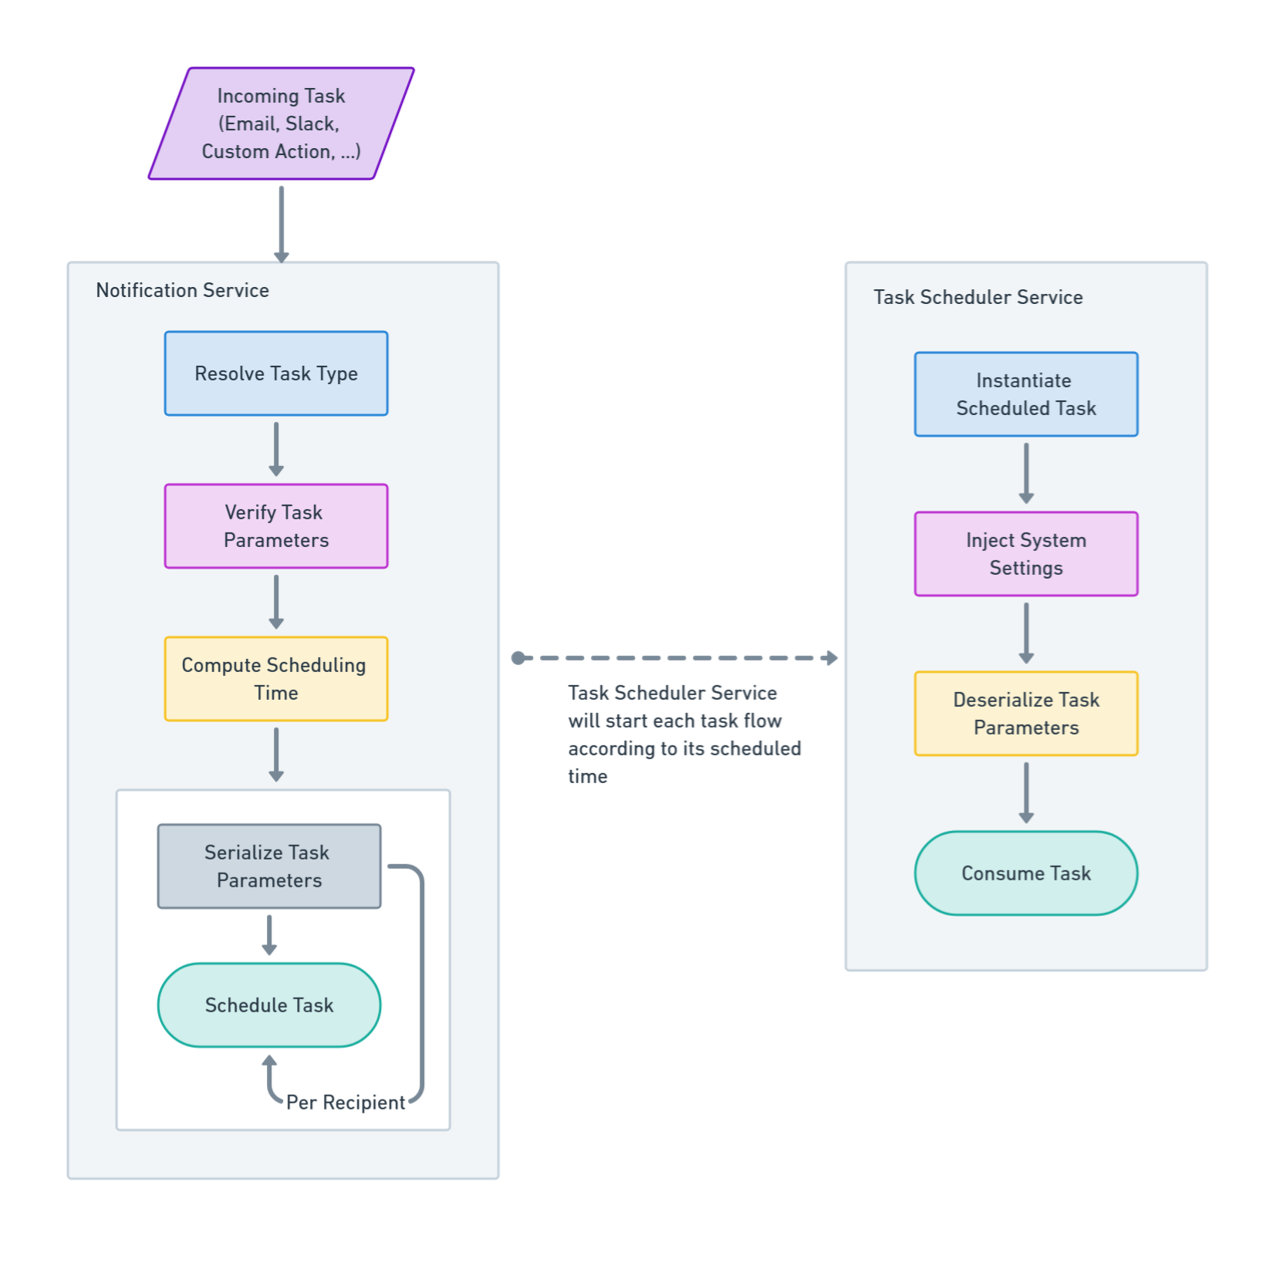
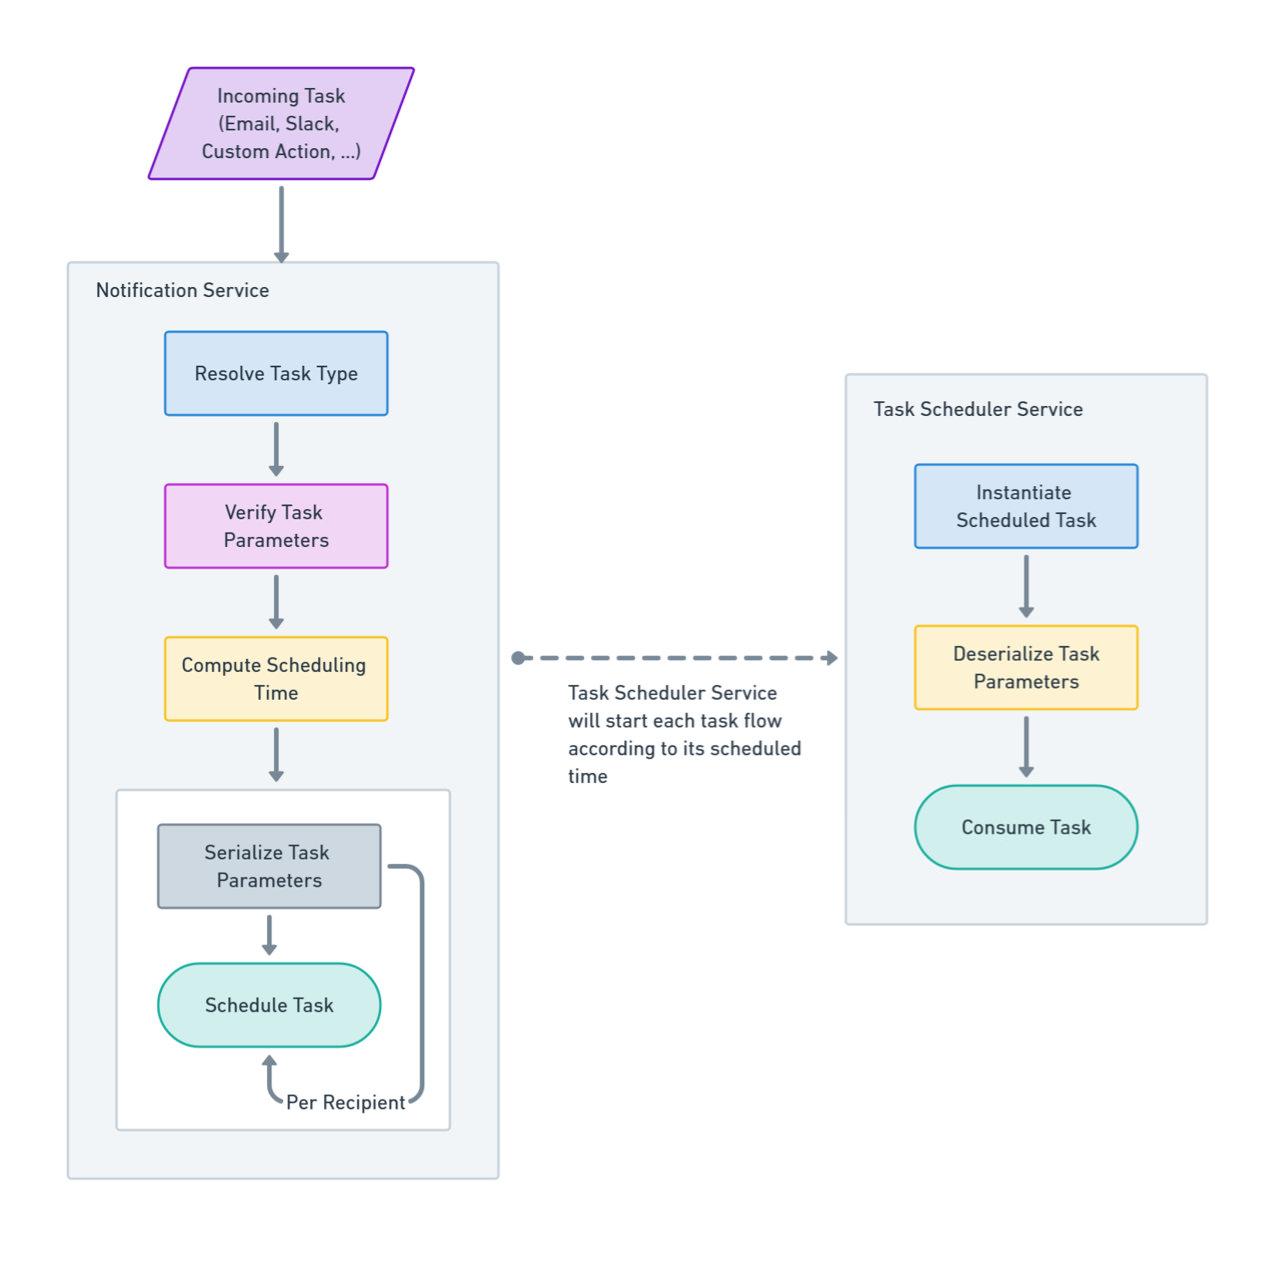
Cleanup

Changed region(s): [[0.6729, 0.2188, 0.9176, 0.7188], [0.9176, 0.7188, 0.9482, 0.75], [0.9176, 0.1875, 0.9482, 0.2188]]

diff --git a/.wiki/01.workflow.md b/.wiki/01.workflow.md
@@ -5,12 +5,11 @@
 ### When a scheduled task is about to be started by the Task Scheduler Service, the following steps are executed:
 
 1. Create a new instance of the task consumer class.
-2. Inject the App Settings into the task instance, enabling access to output SDK configuration settings.
-3. Deserialize the scheduler concrete task parameters and assign them to the task instance.
-4. Resolve the task's configured template message based on the appropriate language or locale.
-5. Replace the template message placeholders with the task parameters.
-6. Convert the template message into the final message string.
-7. Configure the target consumer output SDK (e.g., email or Slack SDK).
-8. Dispatch the message to the target recipient using the configured SDK.
+2. Deserialize the scheduler concrete task parameters and assign them to the task instance.
+3. Resolve the task's configured template message based on the appropriate language or locale.
+4. Replace the template message placeholders with the task parameters.
+5. Convert the template message into the final message string.
+6. Configure the target consumer output SDK (e.g., email or Slack SDK).
+7. Dispatch the message to the target recipient using the configured SDK.
 
 ---
